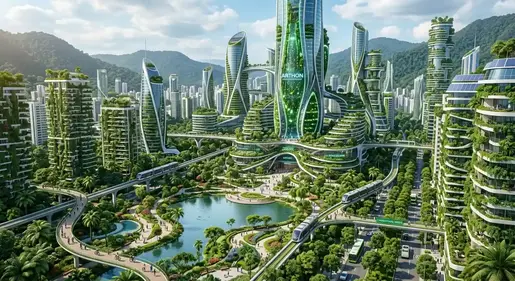
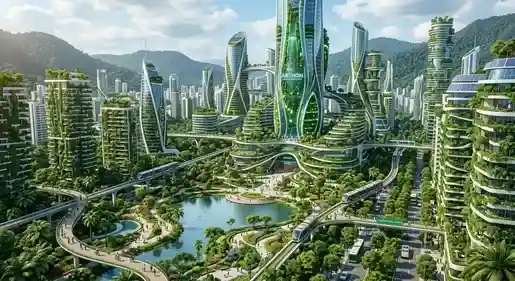
último ajuste do light house

diff --git a/camara/index.html b/camara/index.html
@@ -17,7 +17,7 @@
     <meta property="og:description"
         content="Câmara de comércio de Arthon, site para unir nossos empresários com os moradores">
     <meta property="og:image" content="https://jonathanscosta.github.io/wdd231/camara/imagens/logo_camara.webp">
-    <meta property="og:url" content="https://jonathanscosta.github.io/wdd231/camara/diretorio.html">
+    <meta property="og:url" content="https://jonathanscosta.github.io/wdd231/camara/index.html">
 
     <link rel="stylesheet" href="estilos/normalize.css">
     <link rel="stylesheet" href="estilos/mobile.css">
@@ -55,7 +55,7 @@
             <img src="imagens/hero.webp" alt="cidade de arthon" width="300" height="164" fetchpriority="high">
         </div>
         <p class="frase-hero">Fortaleça seu negócio <br> e faça parte da nossa <br> comunidade.</p>
-        <button id="acao-btn" class="acao-btn"><a href="associar.html">Associar-se</a></button>
+        <a href="associar.html" id="acao-btn" class="acao-btn">Associar-se</a>
         <h1>Página Inicial</h1>
 
         <section id="eventos_atuais" class="eventos_atuais">

diff --git a/camara/estilos/mobile.css b/camara/estilos/mobile.css
@@ -131,28 +131,28 @@ main h1 {
     z-index: 100;
     animation: pulsar 2.5s infinite;
     cursor: pointer;
-
-}
-
-.acao-btn a {
     text-decoration: none;
     font-family: var(--font-titulo);
+    padding: 5px;
+
 }
+
+
 
 @keyframes pulsar {
     0% {
 
-        box-shadow: 0 0 0 0 var(--verde-claro);
+       
         transform: scale(1);
     }
 
     50% {
-        box-shadow: 0 0 5px 5px var(--verde-claro);
+       
         transform: scale(1.1);
     }
 
     100% {
-        box-shadow: 0 0 0 0 var(--verde-claro);
+        
         transform: scale(1);
     }
 }
@@ -176,6 +176,7 @@ main h1 {
     margin: 0 auto;
     padding: 0 20px;
     margin-top: 20px;
+    width: 95%;
 }
 
 .evento h2 {
@@ -202,6 +203,7 @@ main h1 {
     font-family: var(--font-corpo);
 
     box-shadow: 0 3px 10px rgba(0, 0, 0, 0.15);
+    min-height: 250px;
 }
 
 .clima-atual {
@@ -490,11 +492,17 @@ footer {
     gap: 20px;
     justify-content: center;
     margin-top: 20px;
+    
+
+}
+
+.redes-sociais img{
     width: 40px;
     height: 40px;
     display: block;
-
 }
+
+
 
 .redes-sociais a {
 

diff --git a/camara/estilos/desktop.css b/camara/estilos/desktop.css
@@ -106,6 +106,9 @@
         margin: 0 auto;
 
     }
+    .evento{
+        width: 100%;
+    }
 
     .tempo {
         width: 80%;
